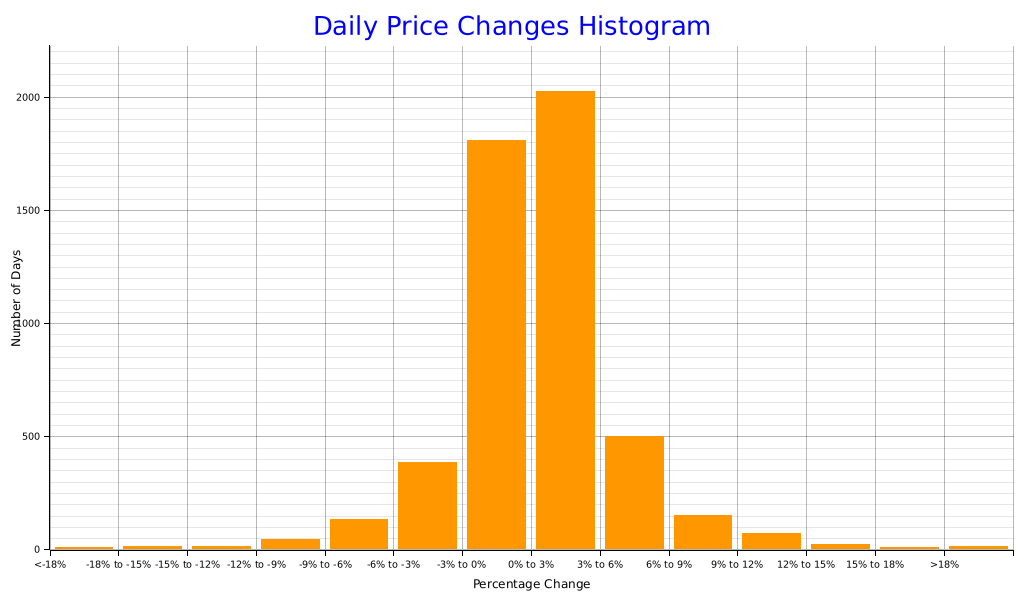
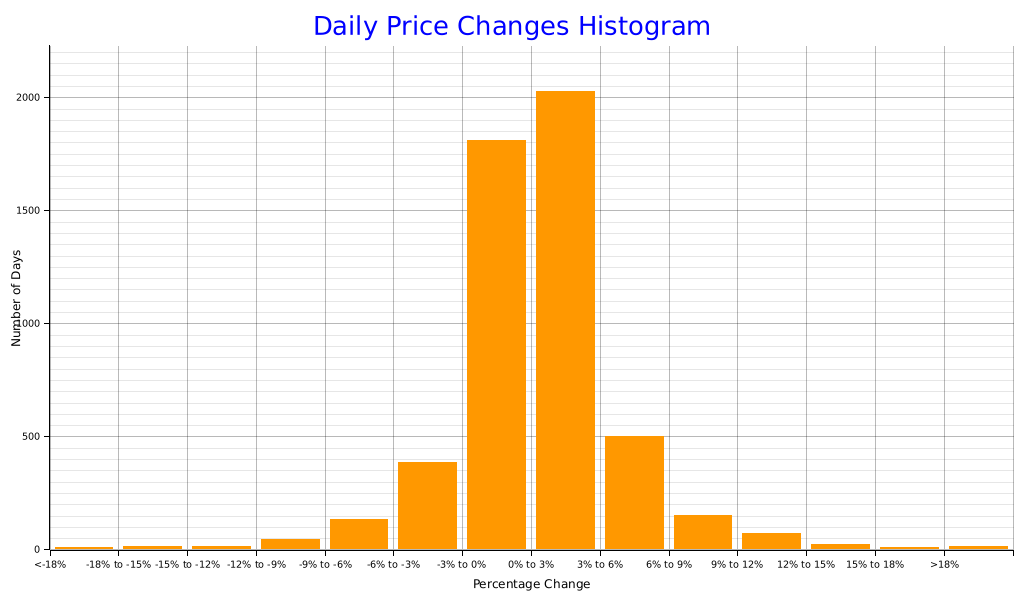
deploy: 37367be3a55653cfc7c730fffc92803847cbb72f

diff --git a/index.html b/index.html
@@ -34,7 +34,7 @@
           <td>97,860.60</td>
           <td>60,074.20</td>
           <td></td>
-          <td>3,336,026,456,064.0</td>
+          <td>3,366,168,297,472.0</td>
         </tr>
         <tr>
           <td class='yearly-summary-year'>2025</td>
@@ -198,11 +198,11 @@
         </tr>
         <tr>
           <td>0% to 3%</td>
-          <td>2024</td>
+          <td>2026</td>
         </tr>
         <tr>
           <td>3% to 6%</td>
-          <td>501</td>
+          <td>500</td>
         </tr>
         <tr>
           <td>6% to 9%</td>
@@ -226,7 +226,7 @@
         </tr>
         <tr class='histogram-footer'>
           <td>Total Days</td>
-          <td>5210</td>
+          <td>5211</td>
         </tr>
       </tbody>
     </table>
@@ -235,7 +235,7 @@
     <br><br>
     <a href='https://github.com/bitcoin-tools/btracker'>Link to the report codebase</a>
     <br><br>
-    This report was last updated at 2026-03-16 05:34:11.617819468 UTC.
+    This report was last updated at 2026-03-16 07:00:53.834337039 UTC.
     <br><br>
     <div class='scrollable-table'>
       <table>
@@ -259,12 +259,24 @@
             <td>72,820.78</td>
             <td>74,363.12</td>
             <td>72,323.09</td>
-            <td>73,765.60</td>
-            <td class='wma-column'>58,839.69</td>
-            <td>30.32 (0.05 %)</td>
-            <td>42,460.49 (135.6 %)</td>
+            <td>73,804.14</td>
+            <td class='wma-column'>58,870.39</td>
+            <td>31.39 (0.05 %)</td>
+            <td>43,941.23 (147.1 %)</td>
             <td>2,040.03 (2.7 %)</td>
-            <td>2,550.98 (3.5 %)</td>
+            <td>1,014.23 (1.3 %)</td>
+          </tr>
+          <tr>
+            <td>2026-03-15</td>
+            <td>71,213.67</td>
+            <td>73,173.00</td>
+            <td>70,882.42</td>
+            <td>72,789.91</td>
+            <td class='wma-column'>58,839.00</td>
+            <td>29.62 (0.05 %)</td>
+            <td>41,484.80 (132.5 %)</td>
+            <td>2,290.58 (3.1 %)</td>
+            <td>1,575.28 (2.2 %)</td>
           </tr>
           <tr>
             <td>2026-03-14</td>
